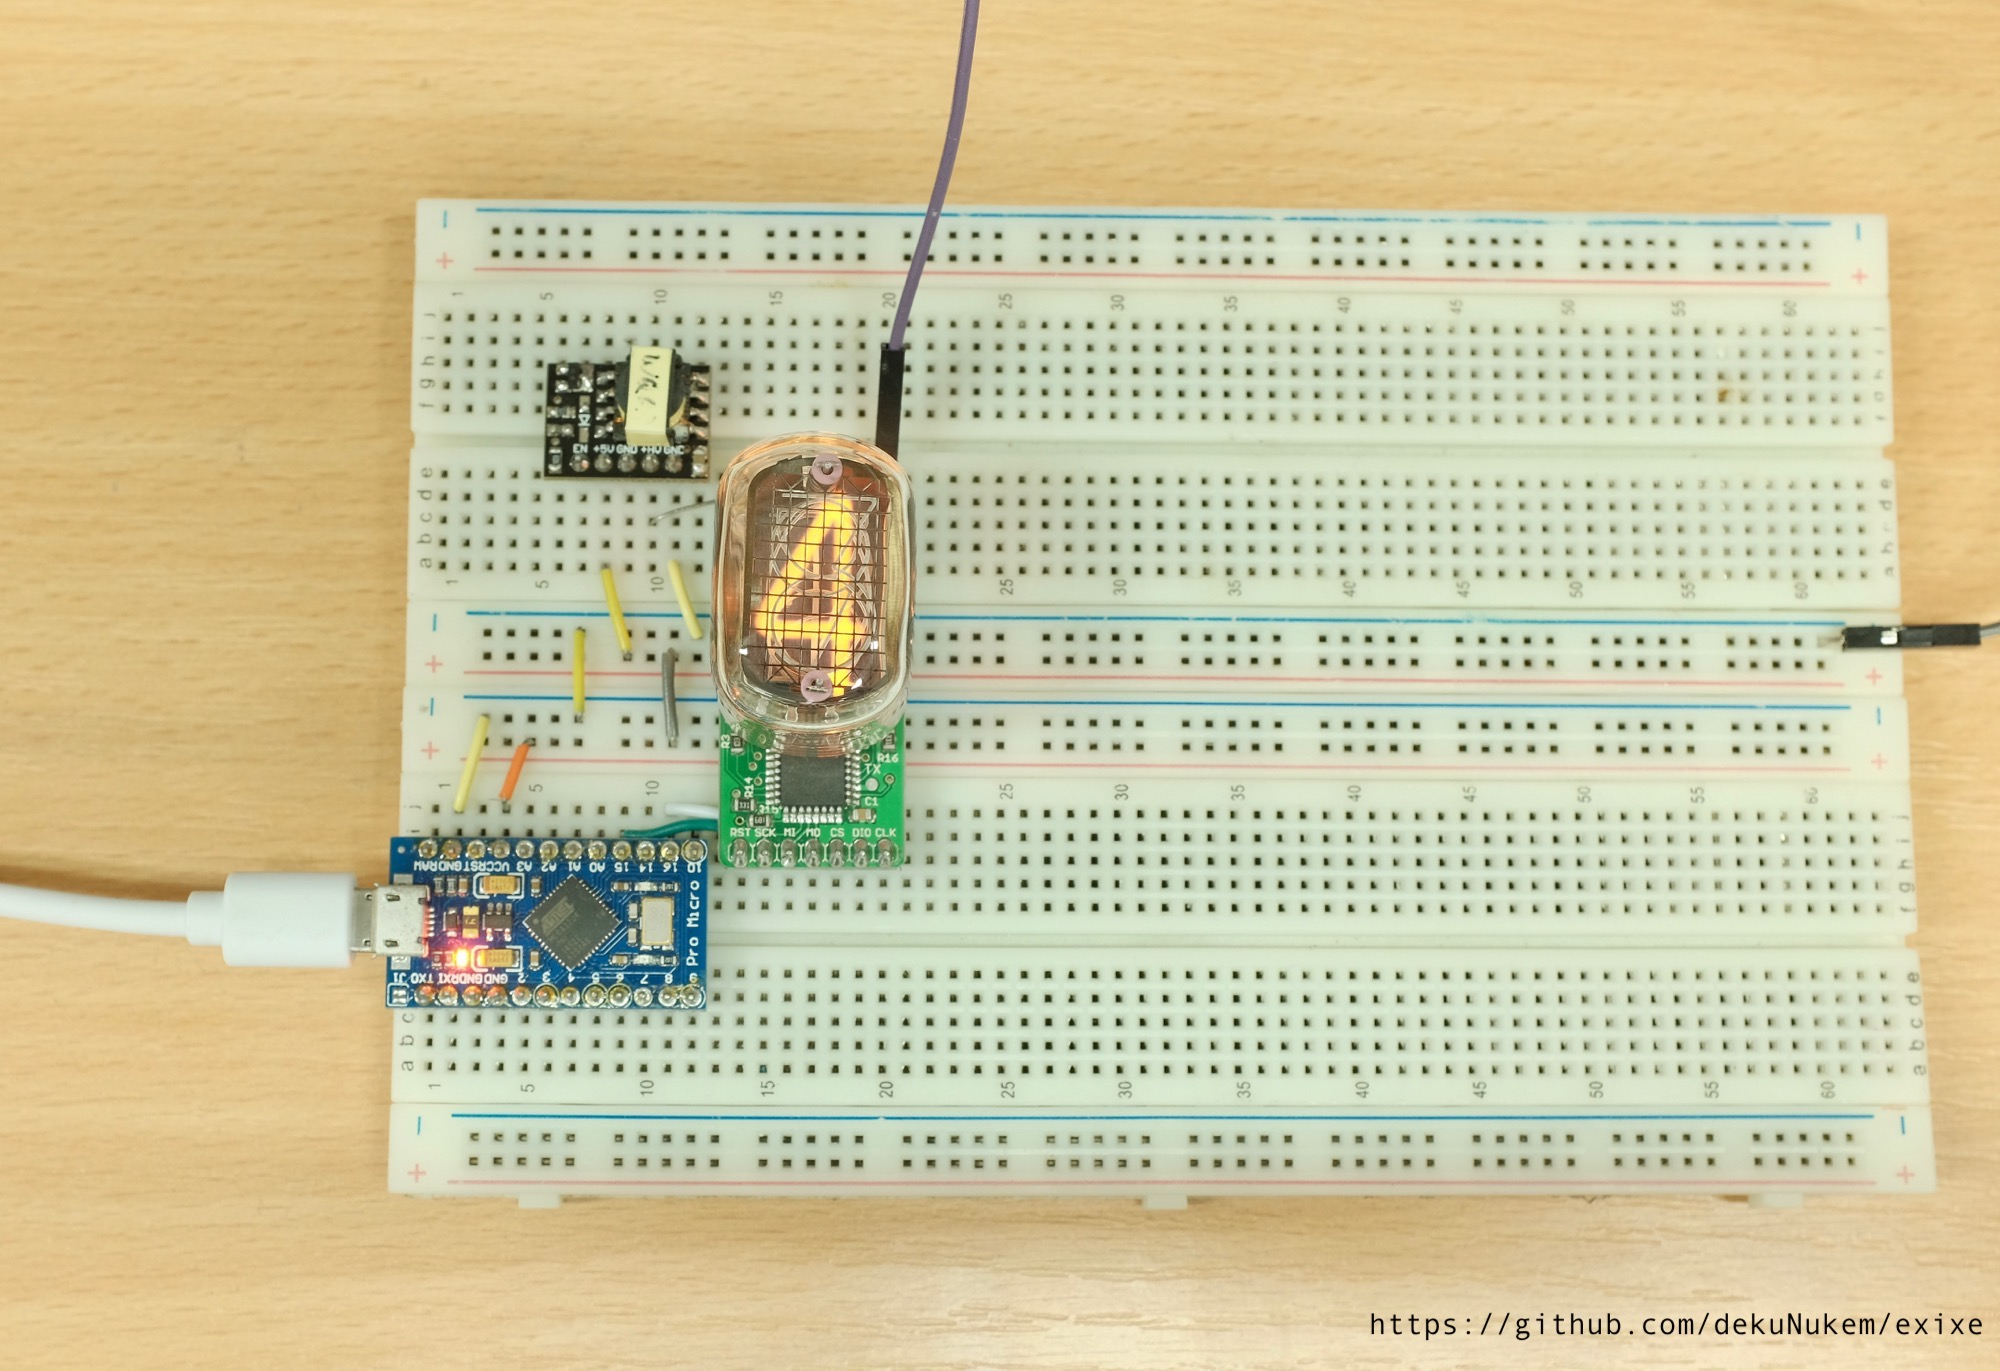
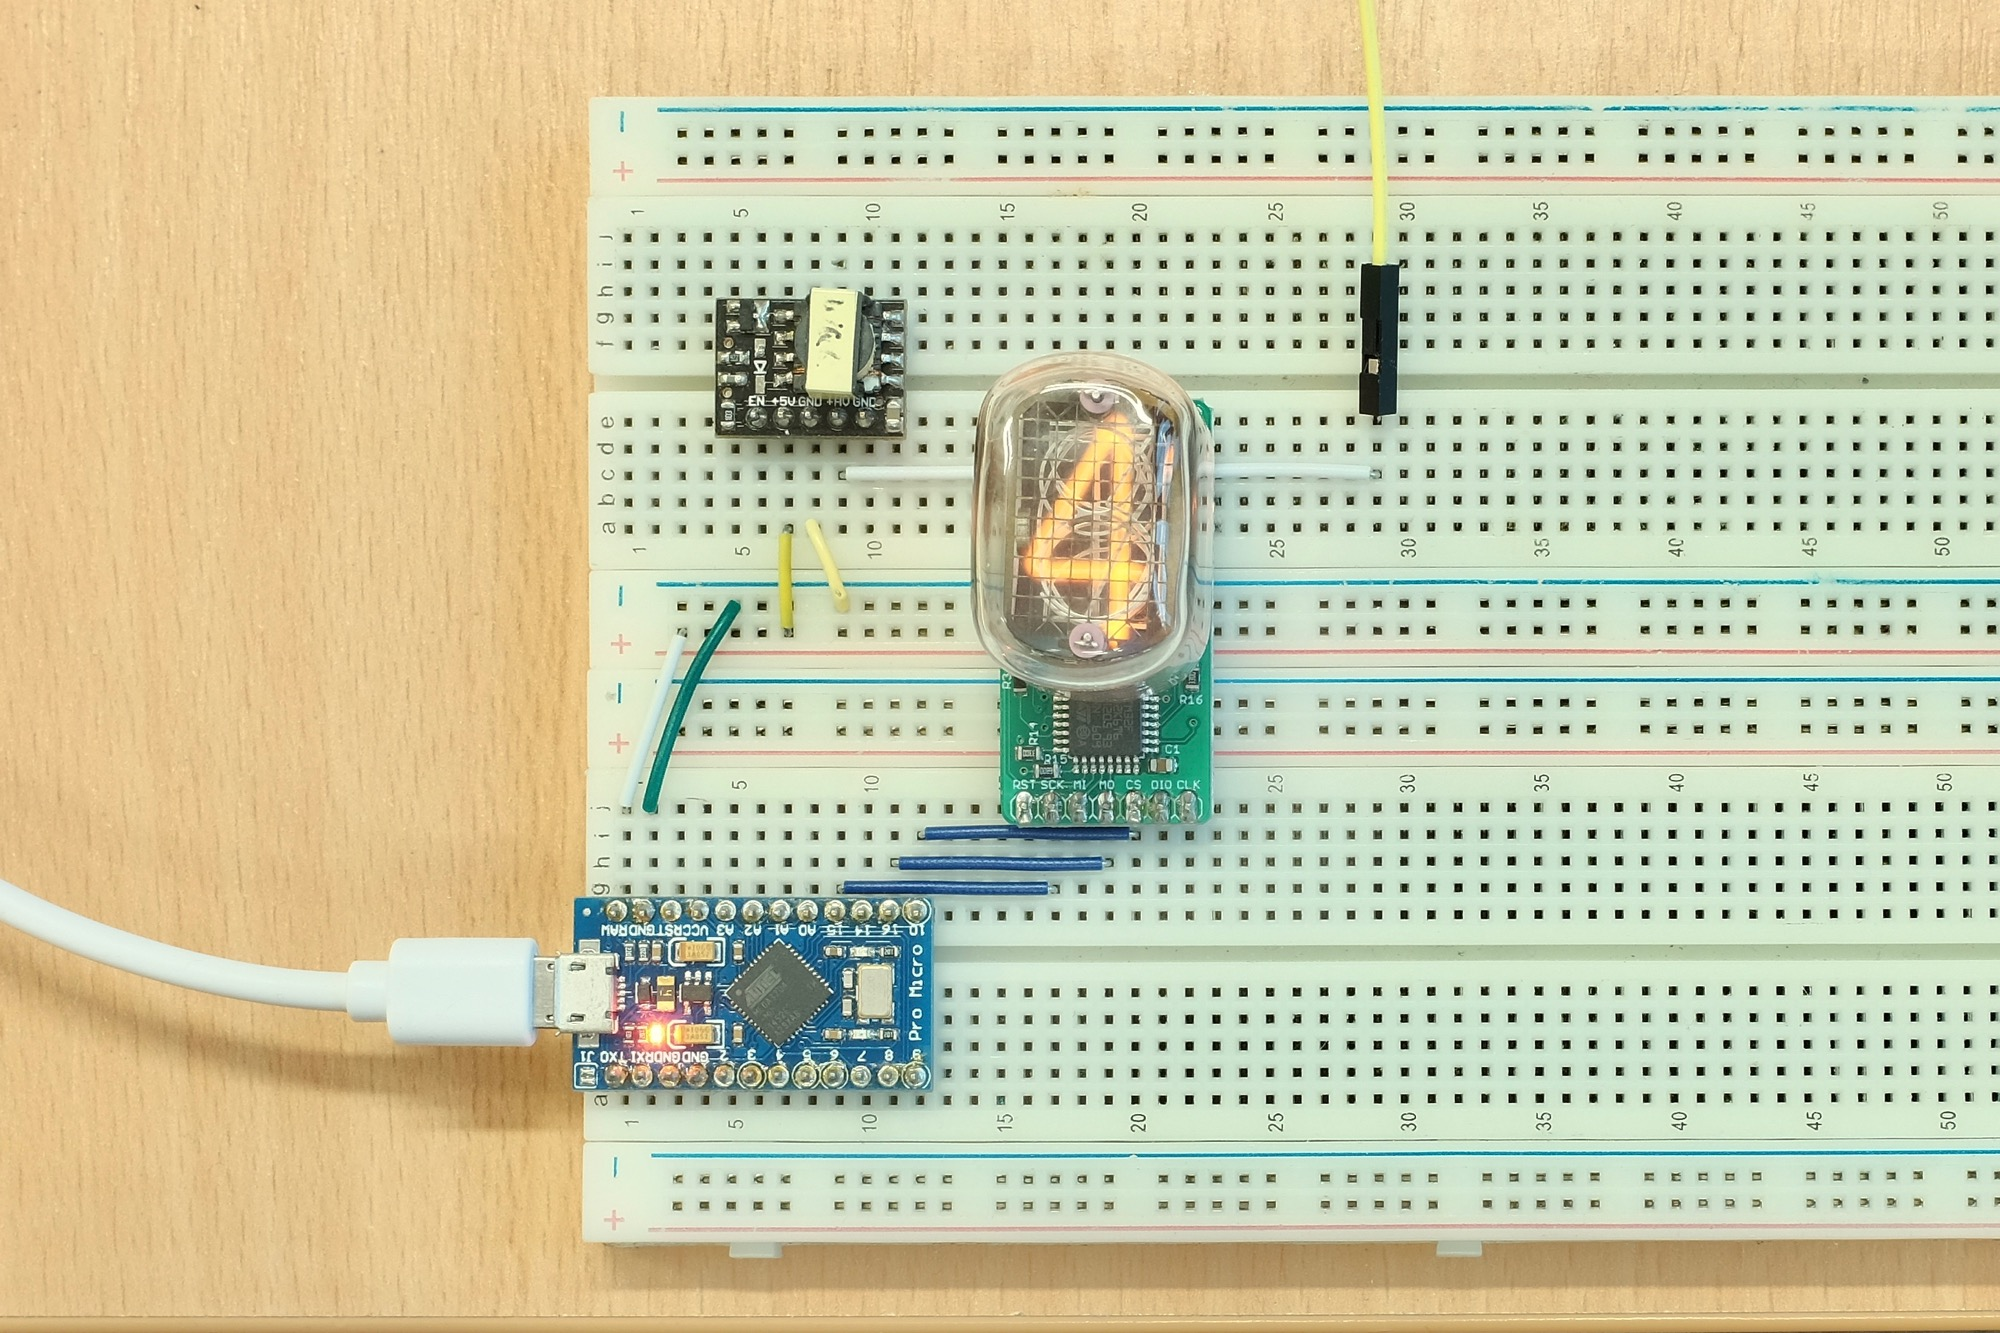
adjust wording and some new pics

diff --git a/README.md b/README.md
@@ -4,7 +4,9 @@
 
 ![Alt text](resources/breadboard.jpg)
 
-![Alt text](resources/example2.gif)
+![Alt text](resources/bread14.jpg)
+
+![Alt text](resources/dual.gif)
 
 ![Alt text](resources/clocks.jpg)
 
@@ -53,12 +55,13 @@ Compared to the traditional approach, exixe modules offers significant advantage
 #### Tube overdrive
 * Optionally allows twice the cathode current
 * For poisoned cathodes in second-hand tubes
+* [Before](resources/no_overdrive.jpg) and [after](resources/with_overdrive.jpg).
 
 #### No multiplexing
 * Brighter display
 * Longer tube life
 * Simpler design
-* Less power consumption
+* Lower power consumption
 
 ## Getting started
 
